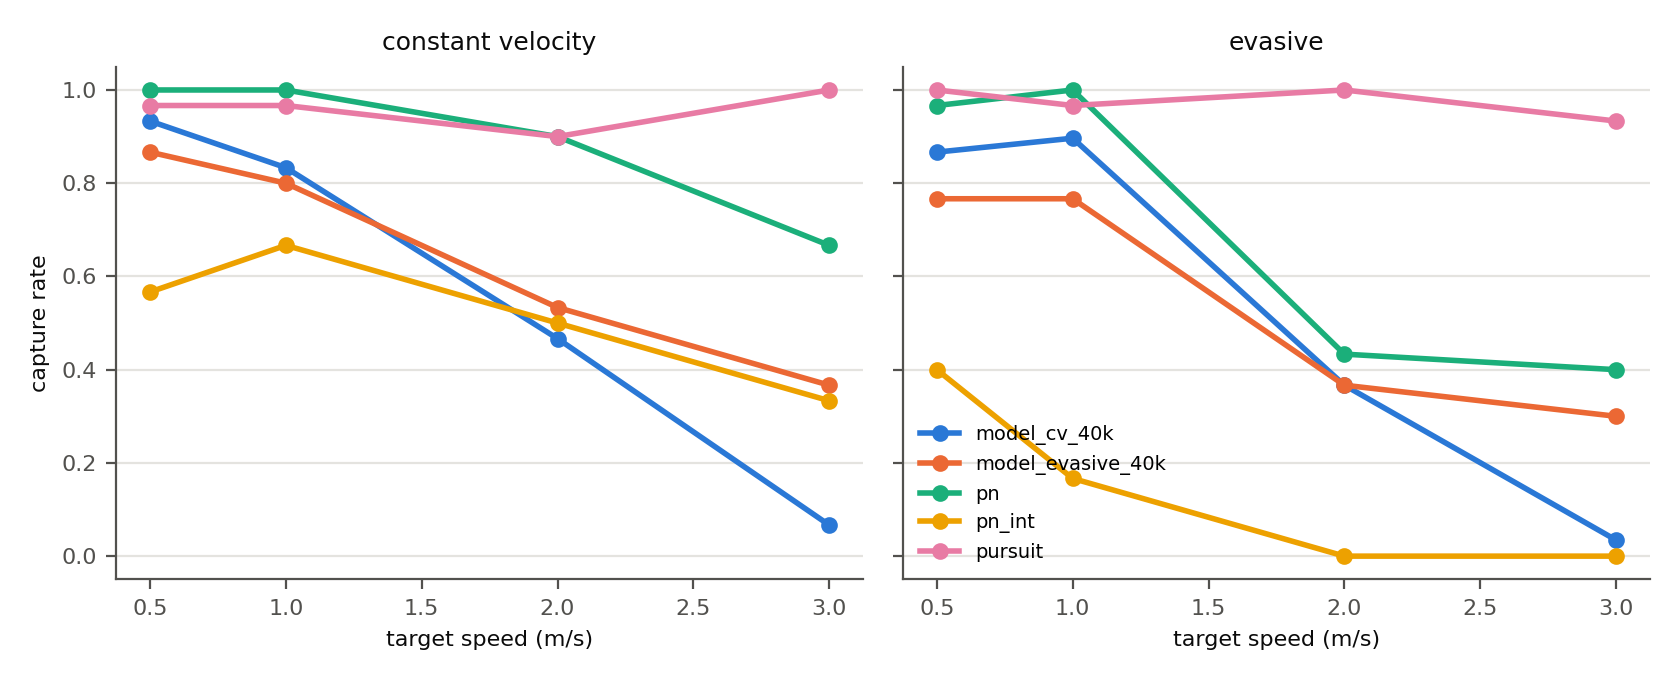
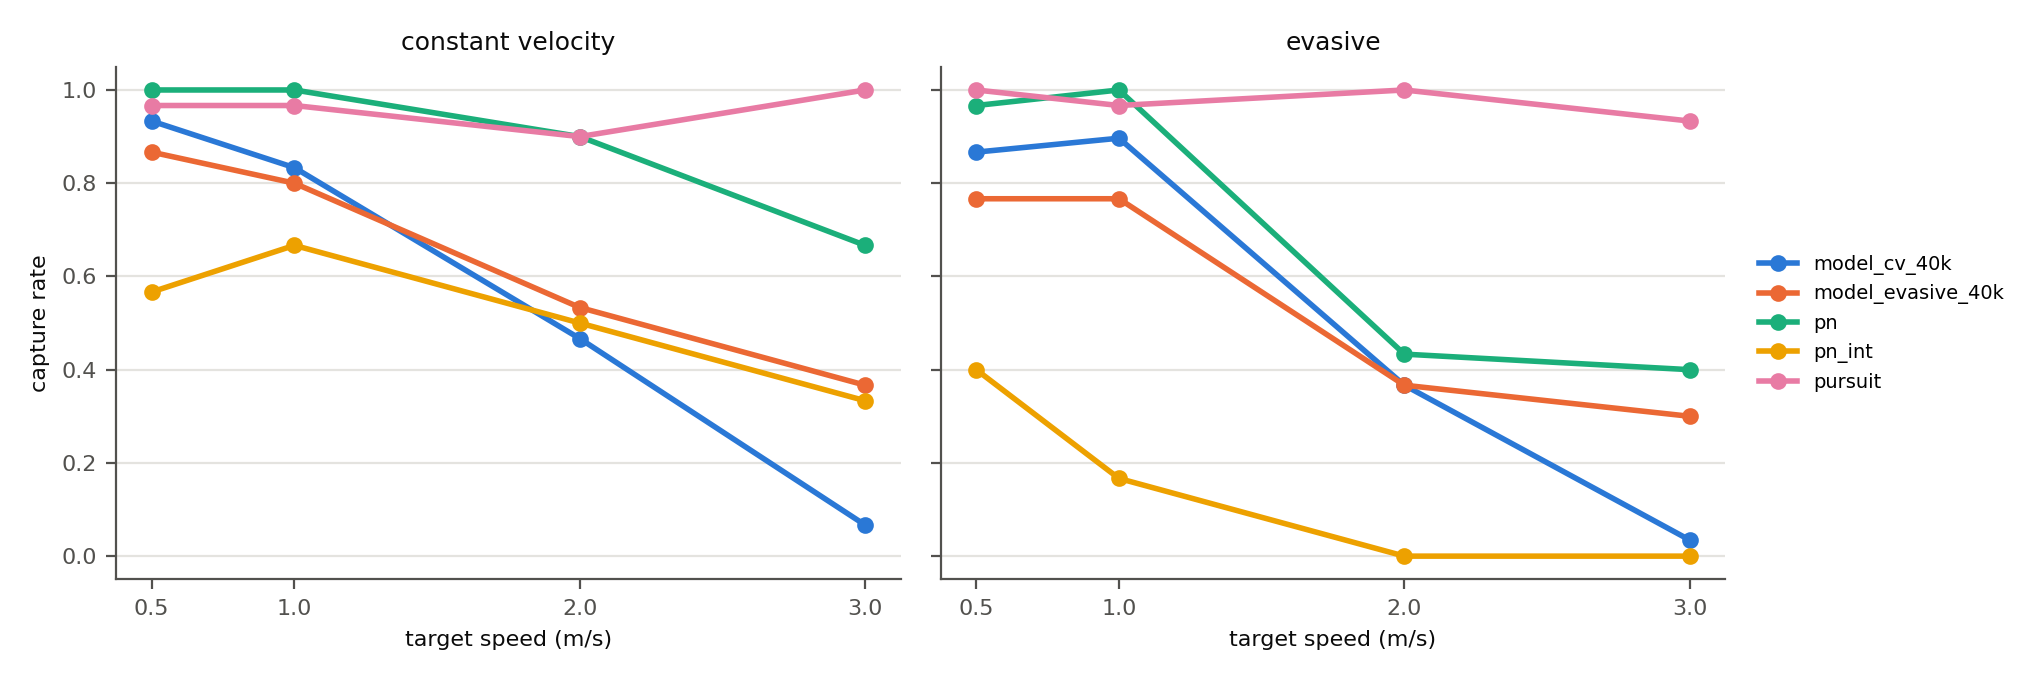
analyze_eval: speed figure legend outside the axes, ticks at the tested speeds

diff --git a/scripts/analyze_eval.py b/scripts/analyze_eval.py
@@ -137,7 +137,7 @@ def fig_speed(s, policies, path):
     moving = [tp for tp in dict.fromkeys(s.target_policy) if tp != 'static']
     if not moving or s[s.target_policy.isin(moving)].target_speed.nunique() < 2:
         return False
-    fig, axes = plt.subplots(1, len(moving), figsize=(4.2 * len(moving), 3.4),
+    fig, axes = plt.subplots(1, len(moving), figsize=(4.2 * len(moving) + 1.8, 3.4),
                              sharey=True, squeeze=False)
     for ax, tp in zip(axes[0], moving):
         sub = s[s.target_policy == tp]
@@ -149,10 +149,12 @@ def fig_speed(s, policies, path):
                     linewidth=2, marker='o', markersize=5, label=pol)
         ax.set_title(tp.replace('_', ' '), fontsize=9, color=INK)
         ax.set_xlabel('target speed (m/s)', fontsize=8, color=INK)
+        ax.set_xticks(sorted(sub.target_speed.unique()))
         ax.set_ylim(-0.05, 1.05)
         style(ax)
     axes[0][0].set_ylabel('capture rate', fontsize=8, color=INK)
-    axes[0][-1].legend(fontsize=7, frameon=False, loc='lower left')
+    axes[0][-1].legend(fontsize=7, frameon=False, loc='center left',
+                       bbox_to_anchor=(1.02, 0.5))   # outside: 5+ lines cross
     fig.tight_layout()
     fig.savefig(path, dpi=200)
     plt.close(fig)
